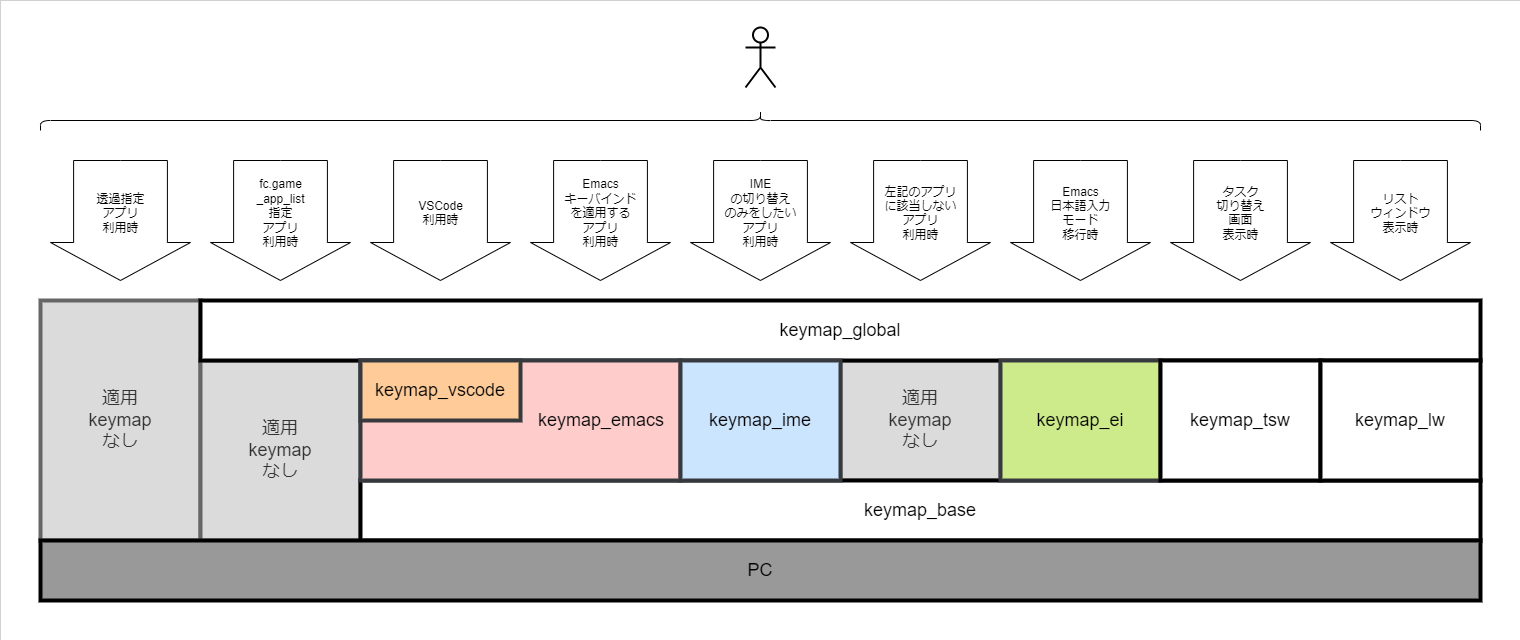
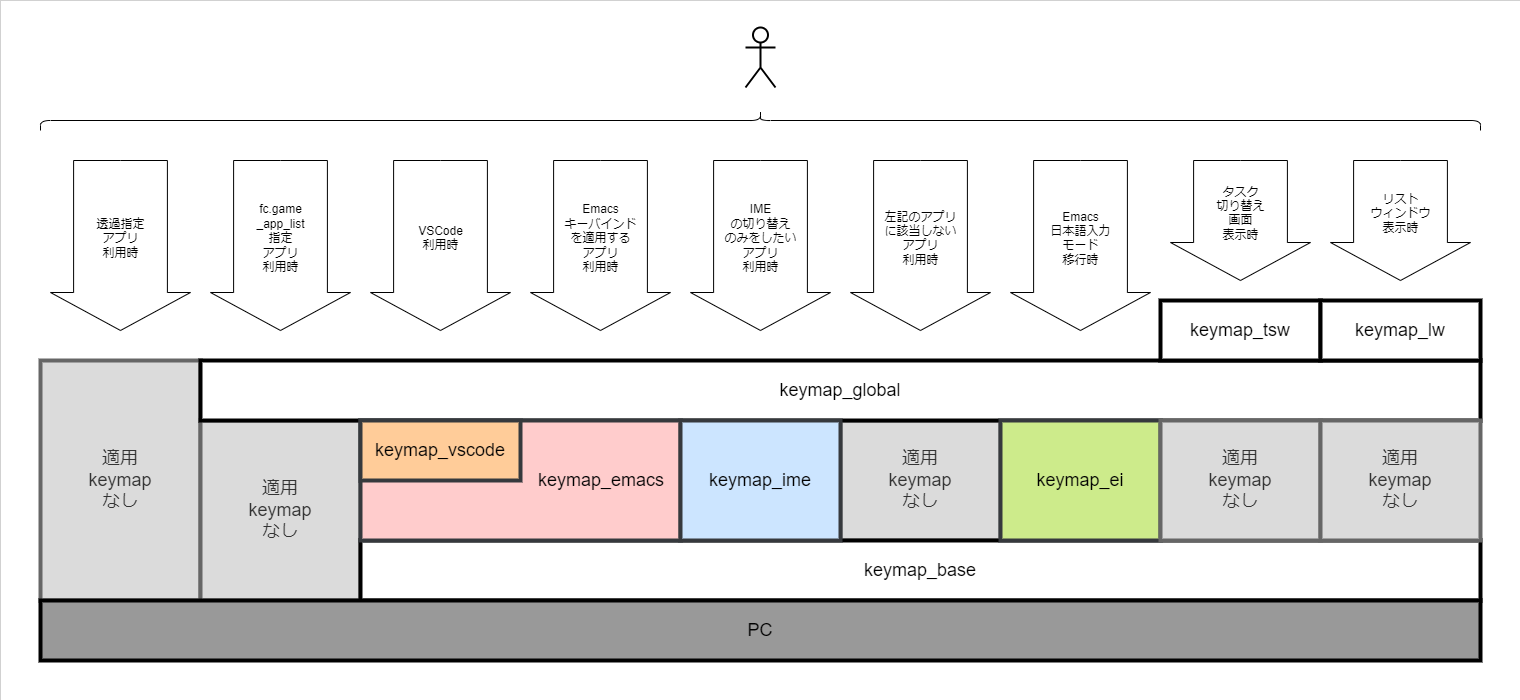
keymap_tsw と keymap_lw は keymap_global より優先順位を高くする

diff --git a/config.py b/config.py
@@ -6,7 +6,7 @@
 ##  Windows の操作を Emacs のキーバインドで行うための設定（Keyhac版）
 #########################################################################
 
-fakeymacs_version = "20240119_01"
+fakeymacs_version = "20240203_01"
 
 import time
 import os.path
@@ -3171,12 +3171,12 @@ def configure(keymap):
     ####################################################################################################
 
     # キーマップの優先順位を調整する
+    keymap.window_keymap_list.remove(keymap_global)
     keymap.window_keymap_list.remove(keymap_tsw)
     keymap.window_keymap_list.remove(keymap_lw)
-    keymap.window_keymap_list.remove(keymap_global)
+    keymap.window_keymap_list.append(keymap_global)
     keymap.window_keymap_list.append(keymap_tsw)
     keymap.window_keymap_list.append(keymap_lw)
-    keymap.window_keymap_list.append(keymap_global)
 
     # 個人設定ファイルのセクション [section-extension-space_fn] を読み込んで実行する
     exec(readConfigPersonal("[section-extension-space_fn]"), dict(globals(), **locals()))
